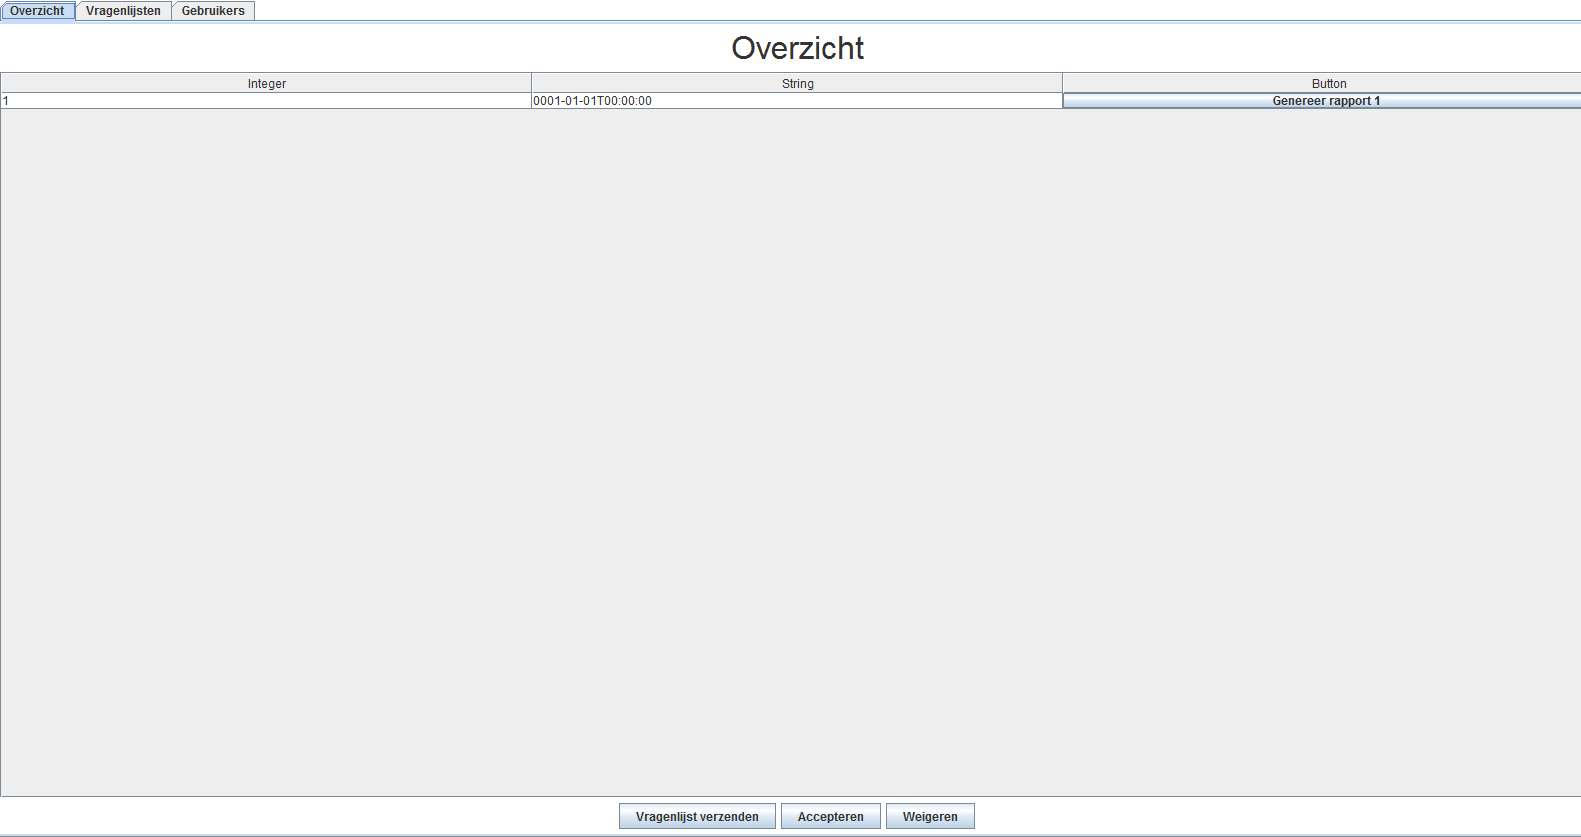
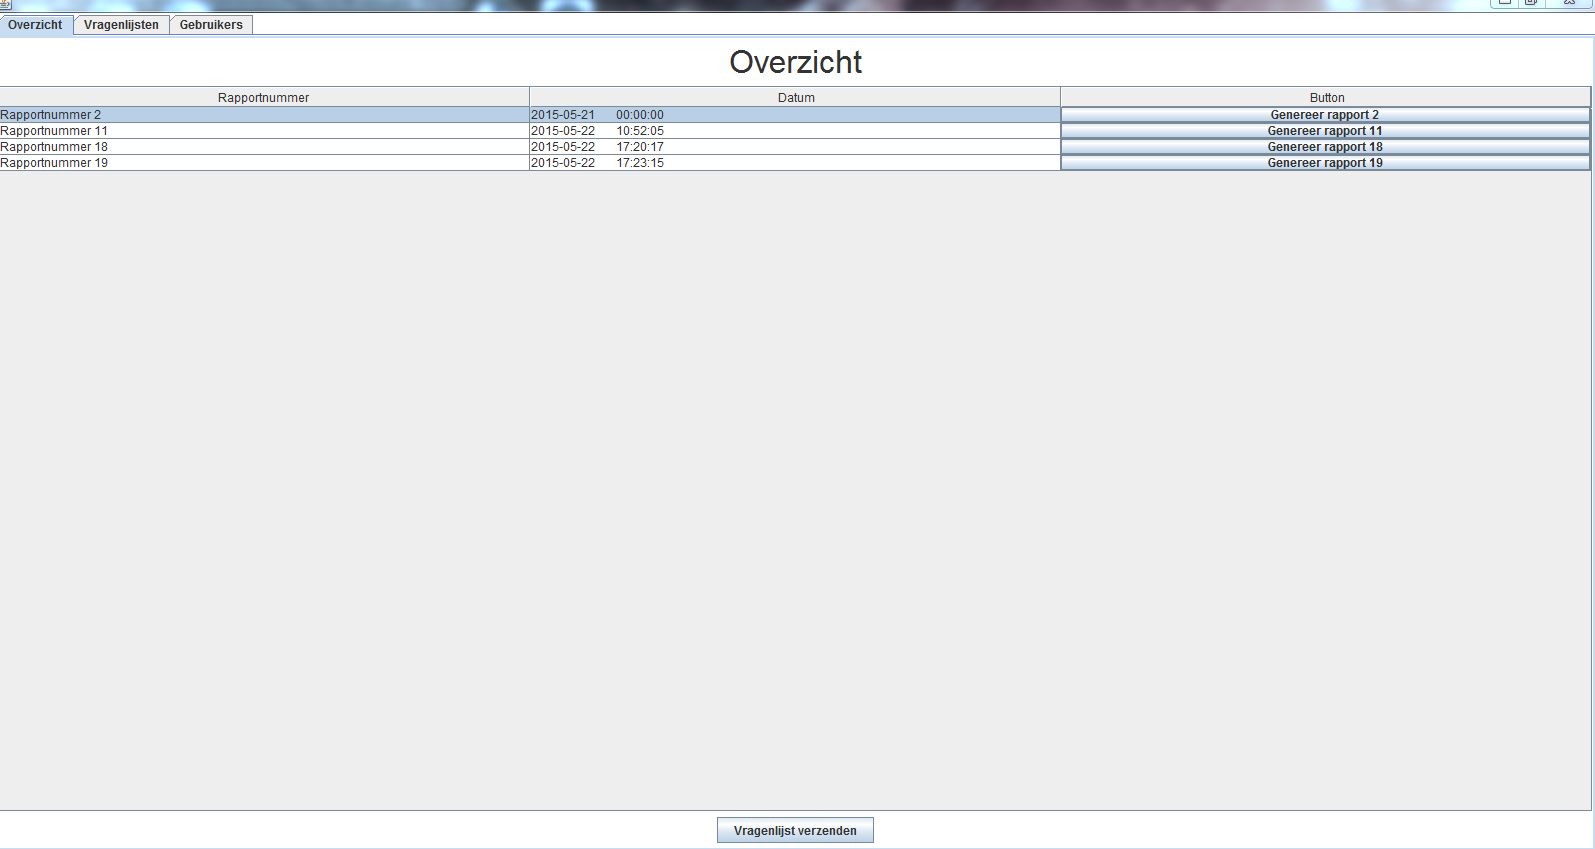
Readme update

Changed region(s): [[0.0, 0.0, 1.0, 1.0]]

diff --git a/README.md b/README.md
@@ -13,9 +13,6 @@ Groepsleden:
 Finah-Desktop-Java
 ------------------
 
-Hierin werkt users toevoegen, bekijken, verwijderen en aanpassen.
-Je kan ook alle thema's terug vinden onder het tabblad "Vragenlijsten". Hierin zijn alle vensters gemaakt om vragen en thema's toe te voegen maar het wordt nog niet naar de database weggeschreven. Dit komt doordat we alleen nog maar uit de webAPI kunnen lezen.
-Users wegschrijven werkt wel, dit komt doordat we rechtstreeks naar de database wegschrijven en niet via de webAPI
 
 Om dit project te kunnen runnen moet er aan het build path 2 jars worden toegevoegd, nl:
 - jdatepicker-1.3.4.jar
@@ -41,6 +38,10 @@ Login screen
 SummaryPanel
 
 ![Summary Screen](/Screenshots/Finah-Desktop-Java/SummaryPanel.PNG)
+
+Rapport window
+
+![Summary Screen](/Screenshots/Finah-Desktop-Java/RapportWindow.PNG)
 
 Send questionlists
 
